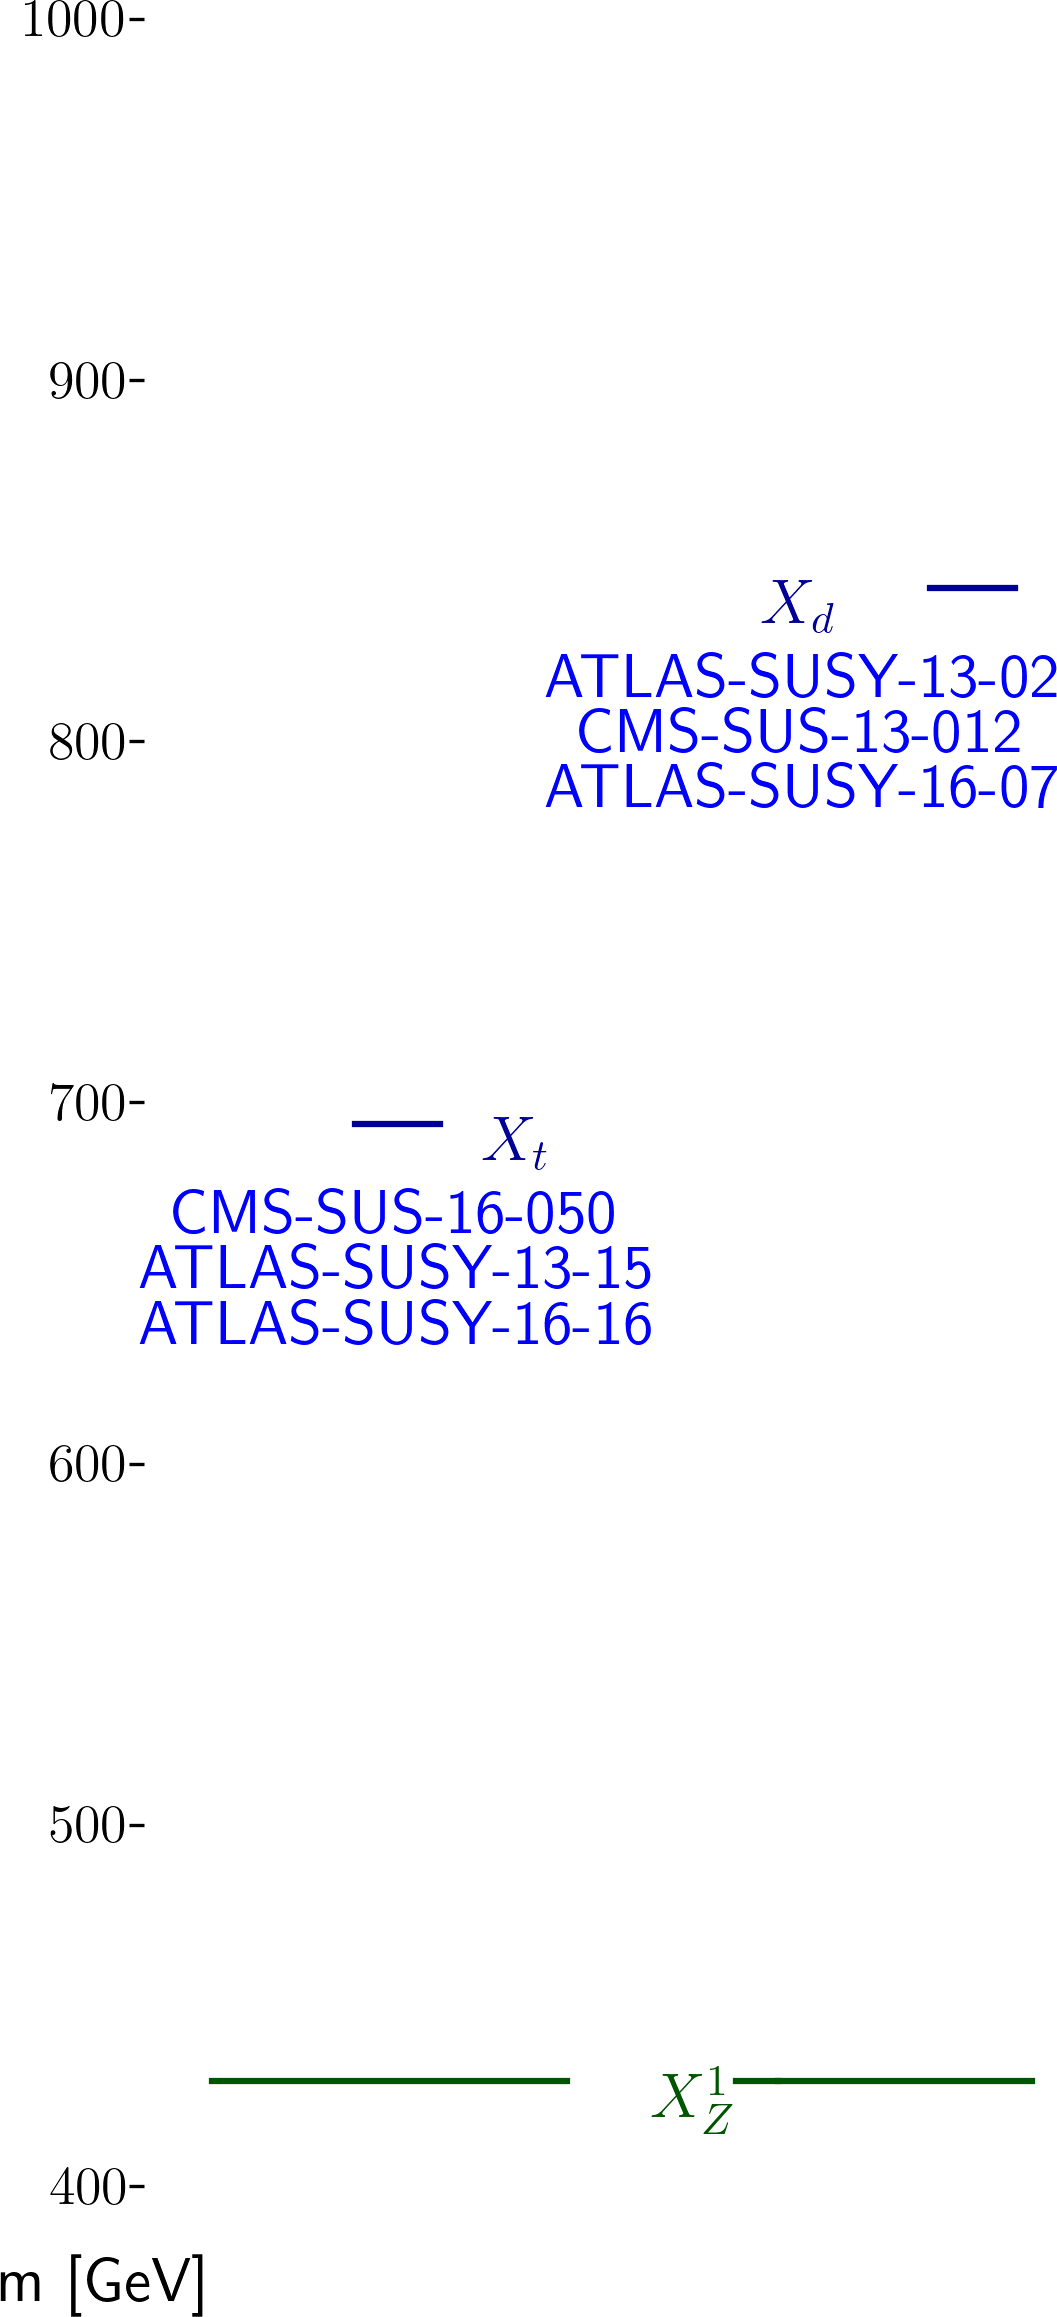
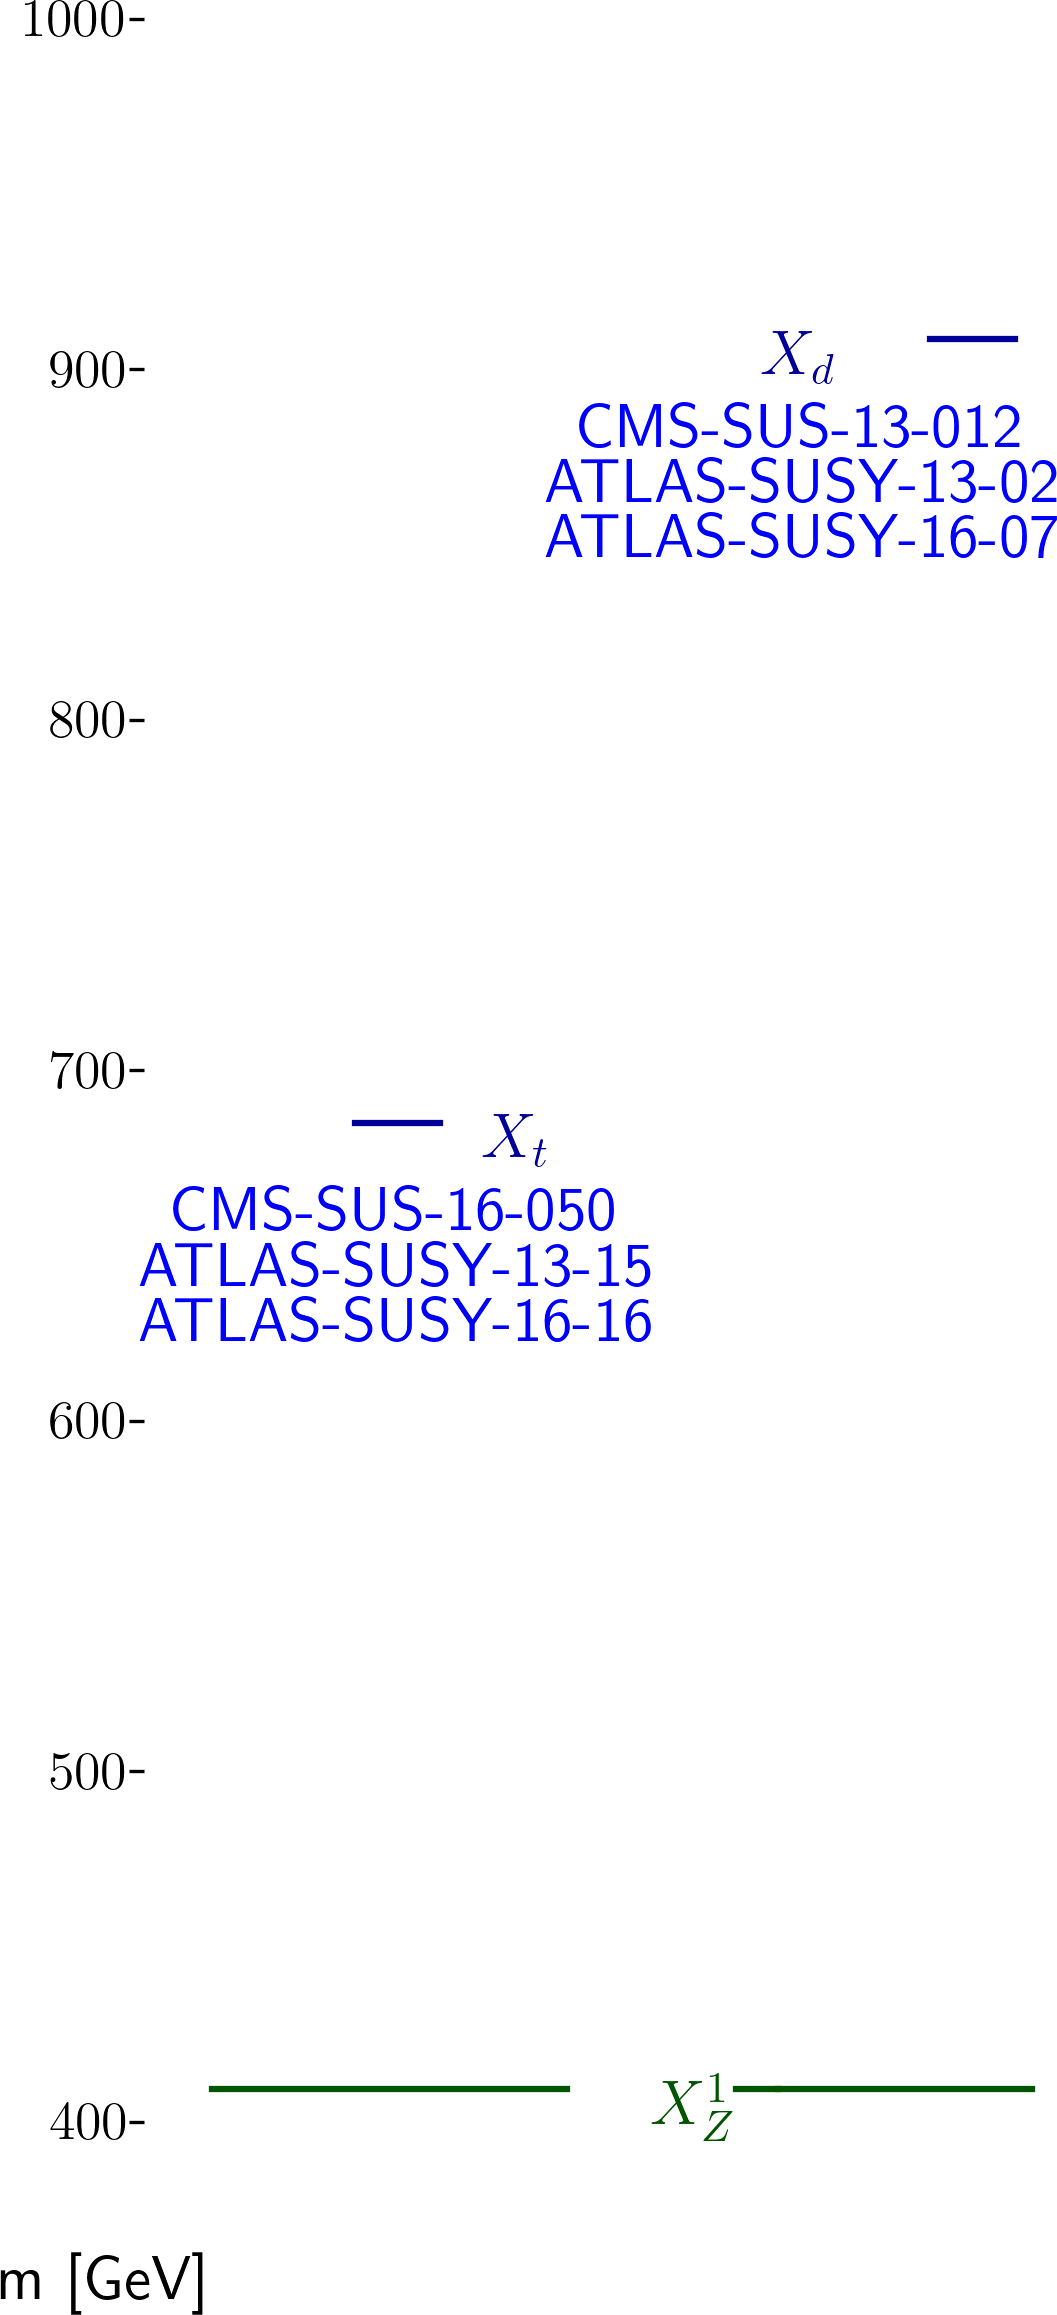
automated update by plotHiscore.py to /scratch-cbe/users/wolfgan.waltenberger/git/smodels.github.io/protomodels

diff --git a/protomodels/2020_PioneerStudy/real9/index.html b/protomodels/2020_PioneerStudy/real9/index.html
@@ -1,31 +1,31 @@
 <html>
 <body>
 <center>
-<table><td><h1>Current best protomodel: K=6.63</h1><td><img height=60px src=https://smodels.github.io/pics/banner.png></table>
+<table><td><h1>Current best protomodel: K=7.45</h1><td><img height=60px src=https://smodels.github.io/pics/banner.png></table>
 </center>
-<b><a href=./hiscore.slha>ProtoModel</a> <a href=./pmodel.py>(dict)</a> produced with <a href=https://smodels.github.io/docs/Validation124>database v1.2.4</a>, combination strategy <a href=./matrix_aggressive.png>aggressive</a> in walker 18 step 91.</b> K plots for: <a href=./M1000022.png?9866774>X<sub>Z</sub><sup>1</sup></a>, <a href=./M1000001.png?9866774>X<sub>d</sub></a>, <a href=./M1000006.png?9866774>X<sub>t</sub></a>. HPD plots for: <a href=./llhd1000001.png?9866774>X<sub>d</sub></a>, <a href=./llhd1000006.png?9866774>X<sub>t</sub></a>. SSM plots for: <a href=./ssm_-1000006_1000006.png?9866774>(x&#772;<sub>t</sub>,X<sub>t</sub>)</a><br>
+<b><a href=./hiscore.slha>ProtoModel</a> <a href=./pmodel.py>(dict)</a> produced with <a href=https://smodels.github.io/docs/Validation124>database v1.2.4</a>, combination strategy <a href=./matrix_aggressive.png>aggressive</a> in walker 25 step 296.</b> K plots for: <a href=./M1000022.png?14864826>X<sub>Z</sub><sup>1</sup></a>, <a href=./M1000001.png?14864826>X<sub>d</sub></a>, <a href=./M1000006.png?14864826>X<sub>t</sub></a>. HPD plots for: <a href=./llhd1000001.png?14864826>X<sub>d</sub></a>, <a href=./llhd1000006.png?14864826>X<sub>t</sub></a>. SSM plots for: <a href=./ssm_-1000006_1000006.png?14864826>(x&#772;<sub>t</sub>,X<sub>t</sub>)</a><br>
 <table width=80%>
 <tr><td>
-<br><b>33 predictions available. Highest r values are:</b><br><ul>
-<li><a href=http://cms-results.web.cern.ch/cms-results/public-results/publications/SUS-19-006/index.html>CMS-SUS-19-006</a>:T2tt r=1.30, r<sub>exp</sub>=0.81<br>
-<li><a href=http://cms-results.web.cern.ch/cms-results/public-results/publications/SUS-16-033/index.html>CMS-SUS-16-033</a>:T2 r=1.22, r<sub>exp</sub>=0.79<br>
-<li><a href=http://cms-results.web.cern.ch/cms-results/public-results/publications/SUS-19-006/index.html>CMS-SUS-19-006</a>:T2 r=1.19, r<sub>exp</sub>=1.06<br>
-<li><a href=http://cms-results.web.cern.ch/cms-results/public-results/publications/SUS-16-036/index.html>CMS-SUS-16-036</a>:T2 r=0.96, r<sub>exp</sub>=0.69<br>
-<li><a href=http://cms-results.web.cern.ch/cms-results/public-results/publications/SUS-16-033/index.html>CMS-SUS-16-033</a>:T2tt r=0.74, r<sub>exp</sub>=0.53<br>
+<br><b>35 predictions available. Highest r values are:</b><br><ul>
+<li><a href=http://cms-results.web.cern.ch/cms-results/public-results/publications/SUS-19-006/index.html>CMS-SUS-19-006</a>:T2 r=1.30, r<sub>exp</sub>=1.16<br>
+<li><a href=http://cms-results.web.cern.ch/cms-results/public-results/publications/SUS-19-006/index.html>CMS-SUS-19-006</a>:T2tt r=1.29, r<sub>exp</sub>=0.83<br>
+<li><a href=http://cms-results.web.cern.ch/cms-results/public-results/publications/SUS-16-033/index.html>CMS-SUS-16-033</a>:T2 r=1.20, r<sub>exp</sub>=0.86<br>
+<li><a href=http://cms-results.web.cern.ch/cms-results/public-results/publications/SUS-16-036/index.html>CMS-SUS-16-036</a>:T2 r=0.86, r<sub>exp</sub>=0.77<br>
+<li><a href=http://cms-results.web.cern.ch/cms-results/public-results/publications/SUS-16-049/index.html>CMS-SUS-16-049</a>:T2tt r=0.75, r<sub>exp</sub>=0.66<br>
 </ul>
 <td><br><b>K values without analyses: (contribution)</b><br>
 <ul>
-<li> <a href=http://cms-results.web.cern.ch/cms-results/public-results/publications/SUS-16-050/index.html>CMS-SUS-16-050</a>: 3.36 (12%)
-<li> <a href=https://twiki.cern.ch/twiki/bin/view/CMSPublic/PhysicsResultsSUS13012>CMS-SUS-13-012</a>: 3.36 (12%)
-<li> <a href=https://atlas.web.cern.ch/Atlas/GROUPS/PHYSICS/PAPERS/SUSY-2013-02/>ATLAS-SUSY-2013-02</a>: 3.28 (13%)
-<li> <a href=https://atlas.web.cern.ch/Atlas/GROUPS/PHYSICS/PAPERS/SUSY-2013-15/>ATLAS-SUSY-2013-15</a>: 3.04 (14%)
-<li> <a href=https://atlas.web.cern.ch/Atlas/GROUPS/PHYSICS/PAPERS/SUSY-2016-16/>ATLAS-SUSY-2016-16</a>: 1.56 (19%)
-<li> <a href=https://atlas.web.cern.ch/Atlas/GROUPS/PHYSICS/PAPERS/SUSY-2016-07/>ATLAS-SUSY-2016-07</a>: -1.12 (29%)
-<td><img width=600px src=./texdoc.png?1602866774>
-<br><font size=-1>Last updated: Fri Oct 16 18:46:14 2020</font>
+<li> <a href=http://cms-results.web.cern.ch/cms-results/public-results/publications/SUS-16-050/index.html>CMS-SUS-16-050</a>: 3.64 (13%)
+<li> <a href=https://twiki.cern.ch/twiki/bin/view/CMSPublic/PhysicsResultsSUS13012>CMS-SUS-13-012</a>: 3.64 (13%)
+<li> <a href=https://atlas.web.cern.ch/Atlas/GROUPS/PHYSICS/PAPERS/SUSY-2013-02/>ATLAS-SUSY-2013-02</a>: 3.56 (13%)
+<li> <a href=https://atlas.web.cern.ch/Atlas/GROUPS/PHYSICS/PAPERS/SUSY-2013-15/>ATLAS-SUSY-2013-15</a>: 3.27 (14%)
+<li> <a href=https://atlas.web.cern.ch/Atlas/GROUPS/PHYSICS/PAPERS/SUSY-2016-16/>ATLAS-SUSY-2016-16</a>: 1.64 (19%)
+<li> <a href=https://atlas.web.cern.ch/Atlas/GROUPS/PHYSICS/PAPERS/SUSY-2016-07/>ATLAS-SUSY-2016-07</a>: -0.98 (28%)
+<td><img width=600px src=./texdoc.png?1607864826>
+<br><font size=-1>Last updated: Sun Dec 13 14:07:06 2020</font>
 </table><table style="width:80%">
-<td width=45%><img height=580px src=./ruler.png?1602866774><td width=55%><img height=380px src=./decays.png?1602866774>
-<font size=-3><iframe type="text/html" height="220px" width="100%s" frameborder="0" src="./rawnumbers.html?1602866774"></iframe></font>
+<td width=45%><img height=580px src=./ruler.png?1607864826><td width=55%><img height=380px src=./decays.png?1607864826>
+<font size=-3><iframe type="text/html" height="220px" width="100%s" frameborder="0" src="./rawnumbers.html?1607864826"></iframe></font>
 </table>
 </body>
 </html>

diff --git a/protomodels/2020_PioneerStudy/real9/rawnumbers.html b/protomodels/2020_PioneerStudy/real9/rawnumbers.html
@@ -5,6 +5,6 @@
 <tr><td><a href=https://atlas.web.cern.ch/Atlas/GROUPS/PHYSICS/PAPERS/SUSY-2013-15/>ATLAS-SUSY-2013-15</a></td><td>em</td> <td>tNboost</td><td>T2tt</td><td>5</td><td>3.3 +/- 0.7</td><td style="text-align:right">0.9 &sigma;</td><td style="text-align:right">X<sub>t</sub></td></tr>
 <tr><td><a href=https://atlas.web.cern.ch/Atlas/GROUPS/PHYSICS/PAPERS/SUSY-2016-07/>ATLAS-SUSY-2016-07</a></td><td>em</td> <td>2j_Meff_1200</td><td>T2</td><td>611</td><td>526 +/- 31</td><td style="text-align:right">2.2 &sigma;</td><td style="text-align:right">X<sub>d</sub></td></tr>
 <tr><td><a href=https://atlas.web.cern.ch/Atlas/GROUPS/PHYSICS/PAPERS/SUSY-2016-16/>ATLAS-SUSY-2016-16</a></td><td>em</td> <td>tN_med</td><td>T2tt</td><td>50</td><td>36.3 +/- 6.6</td><td style="text-align:right">1.5 &sigma;</td><td style="text-align:right">X<sub>t</sub></td></tr>
-<tr><td><a href=https://twiki.cern.ch/twiki/bin/view/CMSPublic/PhysicsResultsSUS13012>CMS-SUS-13-012</a></td><td>ul</td> <td>-</td><td>T2</td><td> 51.5 fb </td><td> 31.3 fb</td><td style="text-align:right">1.3 &sigma;</td><td style="text-align:right">X<sub>d</sub></td></tr>
-<tr><td><a href=http://cms-results.web.cern.ch/cms-results/public-results/publications/SUS-16-050/index.html>CMS-SUS-16-050</a></td><td>ul</td> <td>-</td><td>T2tt</td><td> 220.9 fb </td><td> 102.4 fb</td><td style="text-align:right">2.3 &sigma;</td><td style="text-align:right">X<sub>t</sub></td></tr>
+<tr><td><a href=https://twiki.cern.ch/twiki/bin/view/CMSPublic/PhysicsResultsSUS13012>CMS-SUS-13-012</a></td><td>ul</td> <td>-</td><td>T2</td><td> 27.4 fb </td><td> 16.7 fb</td><td style="text-align:right">1.3 &sigma;</td><td style="text-align:right">X<sub>d</sub></td></tr>
+<tr><td><a href=http://cms-results.web.cern.ch/cms-results/public-results/publications/SUS-16-050/index.html>CMS-SUS-16-050</a></td><td>ul</td> <td>-</td><td>T2tt</td><td> 194.9 fb </td><td> 88.0 fb</td><td style="text-align:right">2.4 &sigma;</td><td style="text-align:right">X<sub>t</sub></td></tr>
 </table>

diff --git a/protomodels/2020_PioneerStudy/real9/pmodel.py b/protomodels/2020_PioneerStudy/real9/pmodel.py
@@ -1,1 +1,1 @@
-{'masses': {1000022: 419.045, 1000006: 683.92, 1000001: 832.418}, 'ssmultipliers': {(1000022, 1000022): 0.759, (1000006, 1000006): 0.657, (-1000006, 1000006): 0.657, (-1000006, -1000006): 1.048, (1000006, 1000022): 2.09, (-1000006, 1000022): 2.09, (1000001, 1000001): 1.418, (-1000001, 1000001): 1.418, (-1000001, -1000001): 1.418, (1000001, 1000022): 1.418, (-1000001, 1000022): 1.418, (1000001, 1000006): 1.418, (-1000001, 1000006): 1.418, (-1000006, 1000001): 1.418, (-1000006, -1000001): 1.418}, 'decays': {1000022: {}, 1000006: {(1000022, 6): 1.0}, 1000001: {(1000022, 1): 1.0}}, 'timestamp': 'Fri Oct 16 18:45:41 2020', 'Z': 3.195, 'K': 6.633, 'walkerid': 18, 'step': 91, 'codever': '1.0', 'dbver': '1.2.4'}
+{'masses': {1000022: 399.257, 1000006: 675.003, 1000001: 898.463}, 'ssmultipliers': {(1000022, 1000022): 0.0, (1000006, 1000006): 0.547, (-1000006, 1000006): 0.547, (-1000006, -1000006): 0.547, (1000006, 1000022): 0.547, (-1000006, 1000022): 0.547, (1000001, 1000001): 1.582, (-1000001, 1000001): 1.582, (-1000001, -1000001): 1.582, (1000001, 1000022): 0.0, (-1000001, 1000022): 0.0, (1000001, 1000006): 1.338, (-1000001, 1000006): 1.236, (-1000006, 1000001): 1.338, (-1000006, -1000001): 1.338}, 'decays': {1000022: {}, 1000006: {(1000022, 6): 1.0}, 1000001: {(1000022, 1): 1.0}}, 'timestamp': 'Sun Dec 13 14:06:57 2020', 'Z': 3.309, 'K': 7.451, 'walkerid': 25, 'step': 296, 'codever': '1.0', 'dbver': '1.2.4'}
